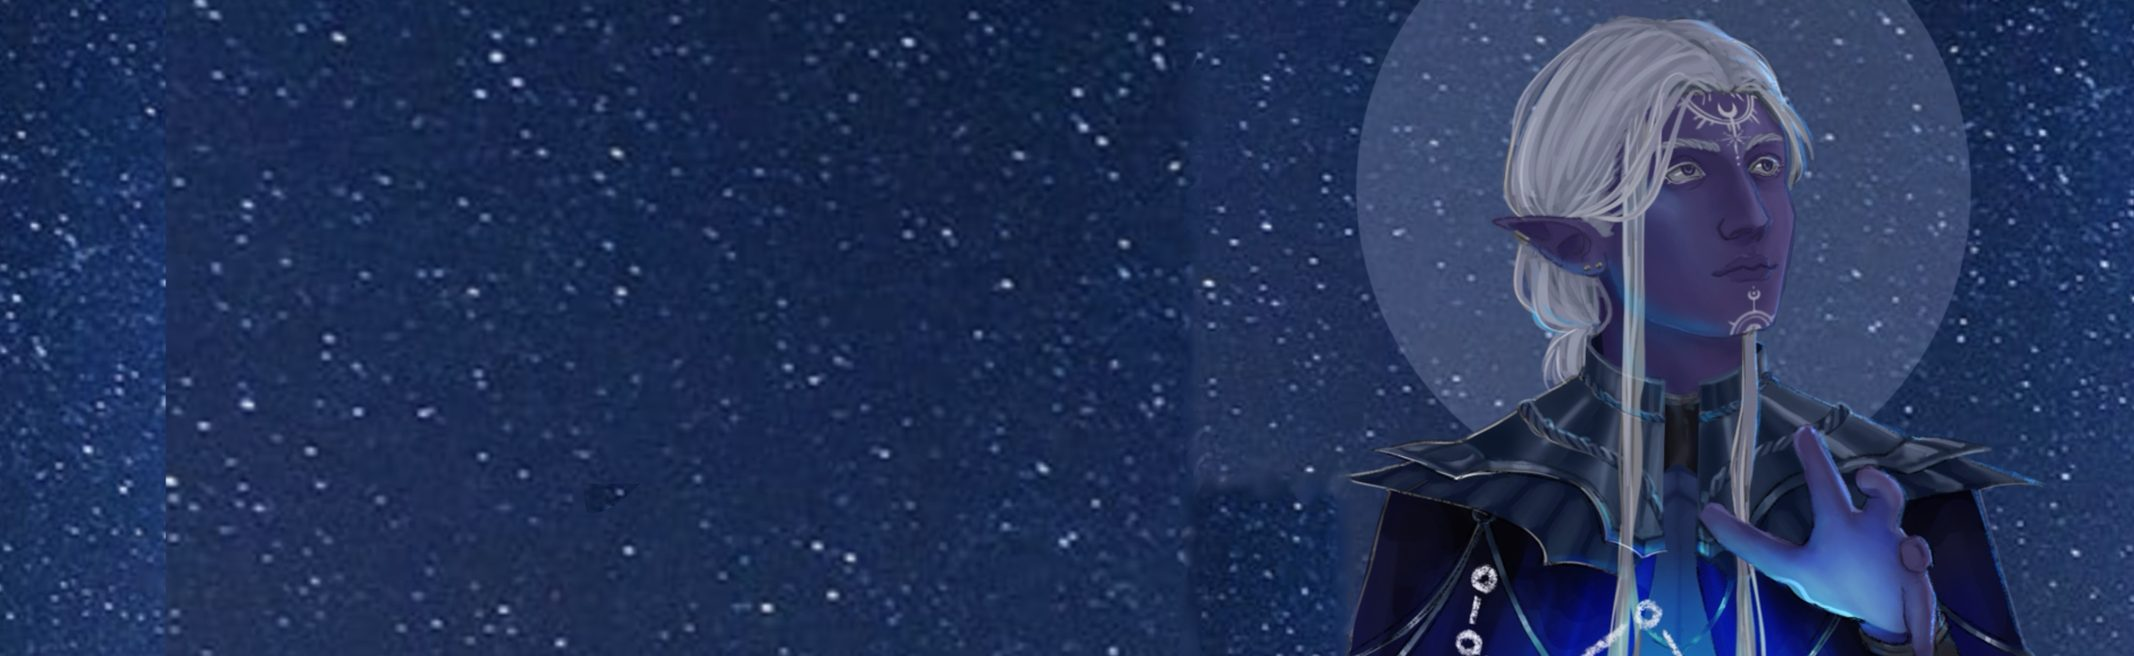
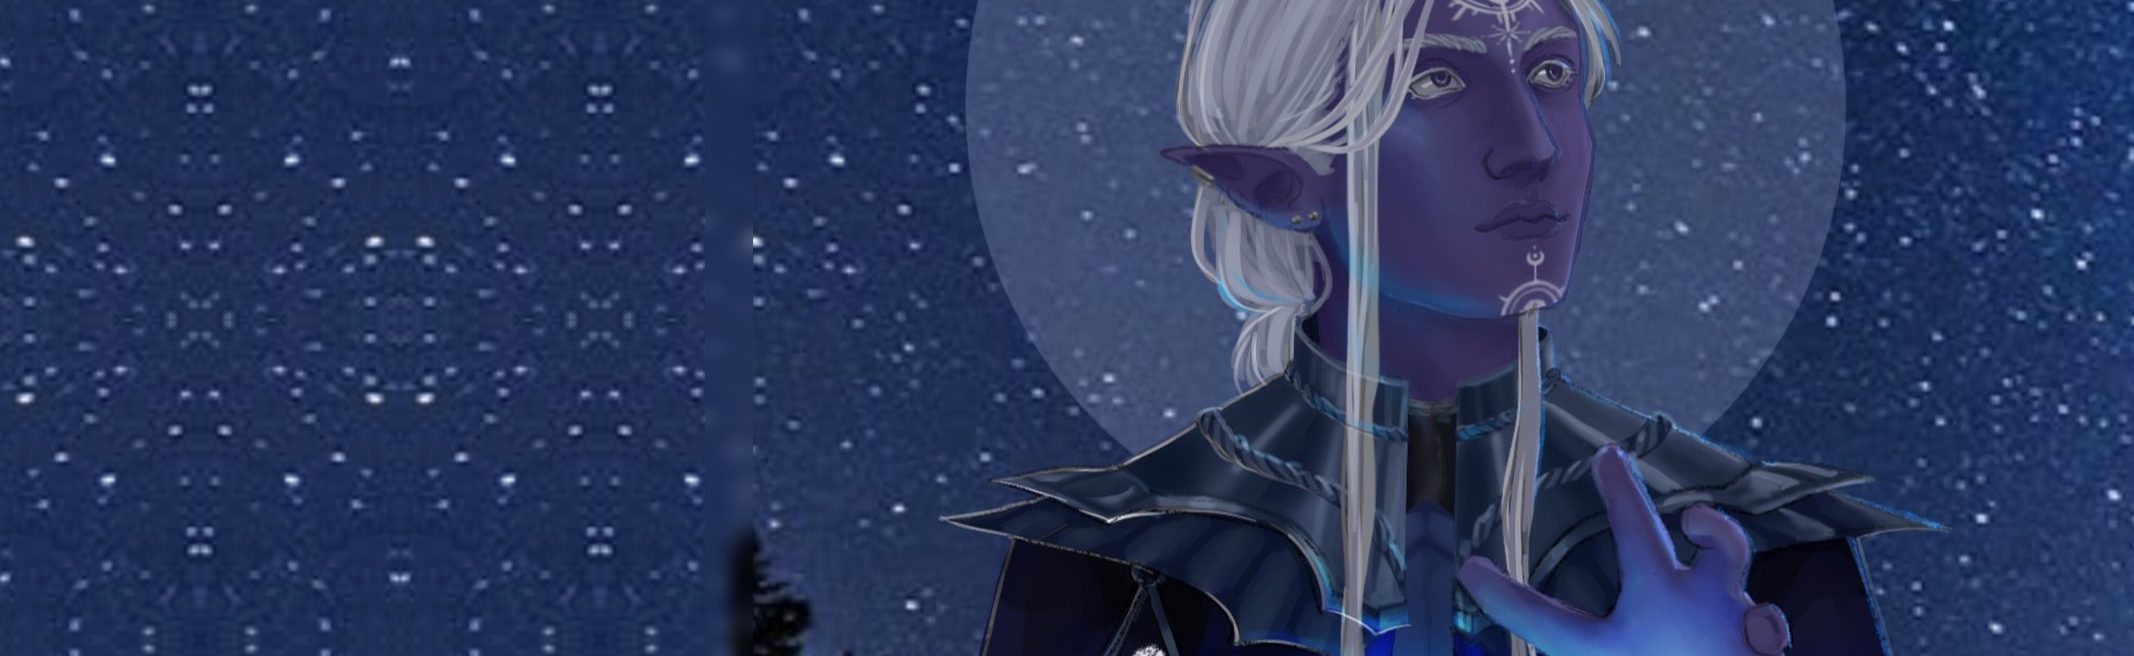
New Vasha, Ivan, Idris splash art; smaller surname
- art fitted to 2134x656, figure kept right, left side extended
- surname ~25% smaller

diff --git a/web/app/globals.css b/web/app/globals.css
@@ -386,7 +386,7 @@ Character sheet sections (components/SheetSections.tsx); colours all come from t
   font-size: clamp(4.5rem, 12.5vw, 10.5rem); line-height: 0.8; letter-spacing: 0.01em; margin: 0; color: #fff;
 }
 .char-head-side { padding-bottom: 0.2rem; }
-.char-head-last { font-weight: 600; font-size: clamp(1.6rem, 3.6vw, 2.6rem); line-height: 1; letter-spacing: 0.01em; color: #ece6ea; } /* title case, as in the mockup */
+.char-head-last { font-weight: 600; font-size: clamp(1.2rem, 2.7vw, 1.95rem); line-height: 1; letter-spacing: 0.01em; color: #ece6ea; } /* title case, as in the mockup */
 .char-head-class { margin-top: 6px; font-style: italic; font-weight: 800; font-size: clamp(1rem, 2vw, 1.4rem); letter-spacing: 0.06em; text-transform: uppercase; }
 .char-head-meta { display: flex; flex-wrap: wrap; row-gap: 4px; margin-top: 14px; font-size: 0.85rem; font-weight: 600; letter-spacing: 0.08em; text-transform: uppercase; }
 .char-head-meta span + span { border-left: 1px solid rgba(255, 255, 255, 0.7); margin-left: 12px; padding-left: 12px; }
